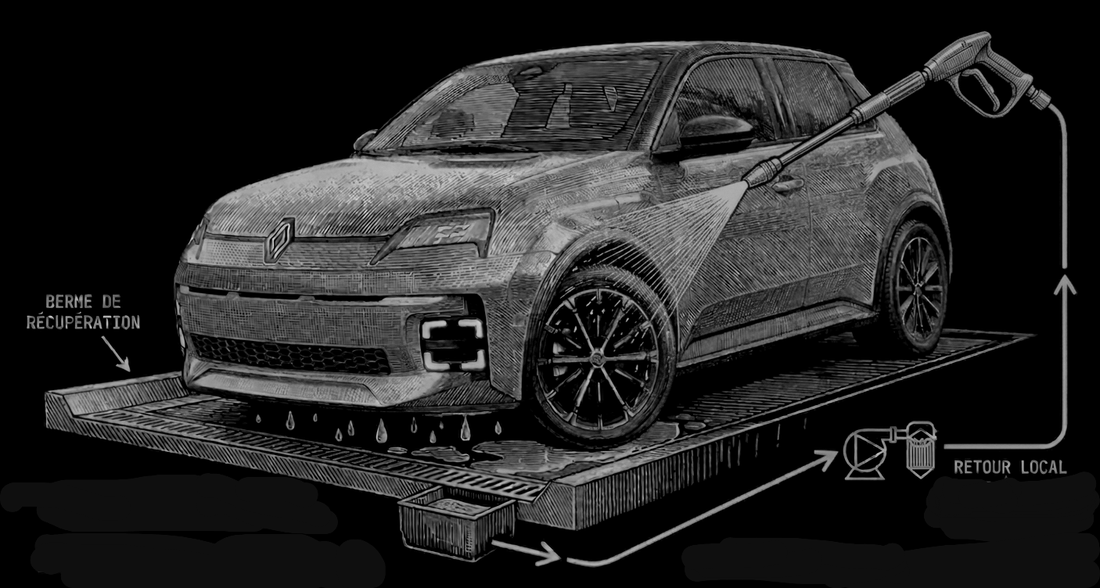
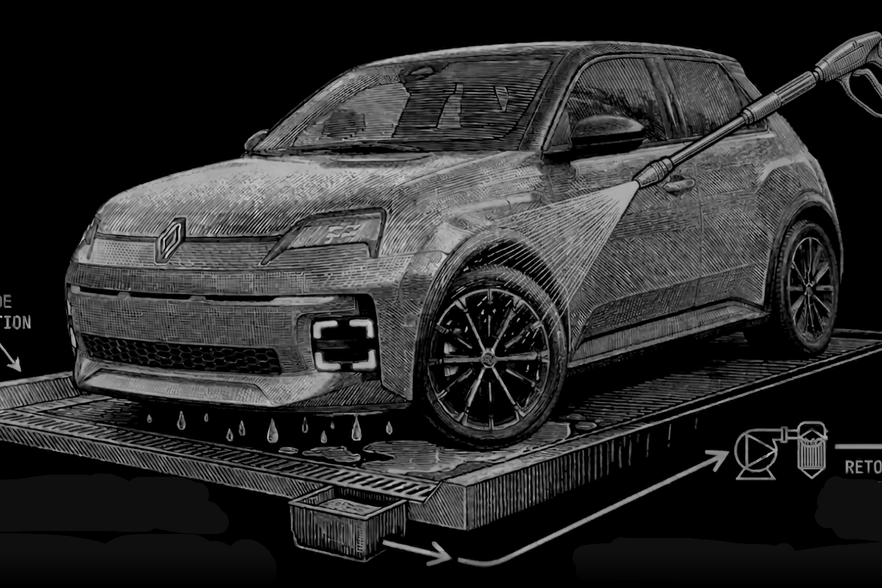
fix(hero): supprime traits parasites + agrandit illustration mobile
Image : crop 3:2 centre (882×588) + fade horizontal 10% bord gauche/droit
+ fade vertical bas 6% — efface les lignes d'annotation qui débordaient.
HeroCar : aspect-ratio 3/2 (vs 1100/588). Hero : -mx-8 sm:mx-0 (bleed
mobile +32px vs +20px) + max-w-[900px] (vs 620px). Sur mobile 375px :
hauteur passe ~200 px → ~293 px (+46 %).

https://claude.ai/code/session_01GdYtkbrbxUZwU6qv2gyjn7

diff --git a/src/components/landing/Hero.tsx b/src/components/landing/Hero.tsx
@@ -69,8 +69,8 @@ export function Hero() {
 
         {/* Colonne illustration — gravure R5 E-Tech au trait.
             -mx-5 mobile : annule le padding du container pour un rendu pleine largeur. */}
-        <div className="rv rv-d1 relative -mx-5 sm:mx-0">
-          <HeroCar className="w-full max-w-[620px] mx-auto" />
+        <div className="rv rv-d1 relative -mx-8 sm:mx-0">
+          <HeroCar className="w-full max-w-[900px] mx-auto" />
         </div>
       </div>
     </section>

diff --git a/src/components/landing/illustrations/HeroCar.tsx b/src/components/landing/illustrations/HeroCar.tsx
@@ -11,7 +11,7 @@ export function HeroCar({ className = "" }: { className?: string }) {
       role="img"
       aria-label="Renault 5 E-Tech sur berme de récupération — nettoyage circulaire à eau recyclée"
       style={{
-        aspectRatio: "1100 / 588",
+        aspectRatio: "3 / 2",
         background: "var(--b2c-accent)",
         WebkitMaskImage: "url(/hero-car-r5.png)",
         WebkitMaskSize: "contain",
